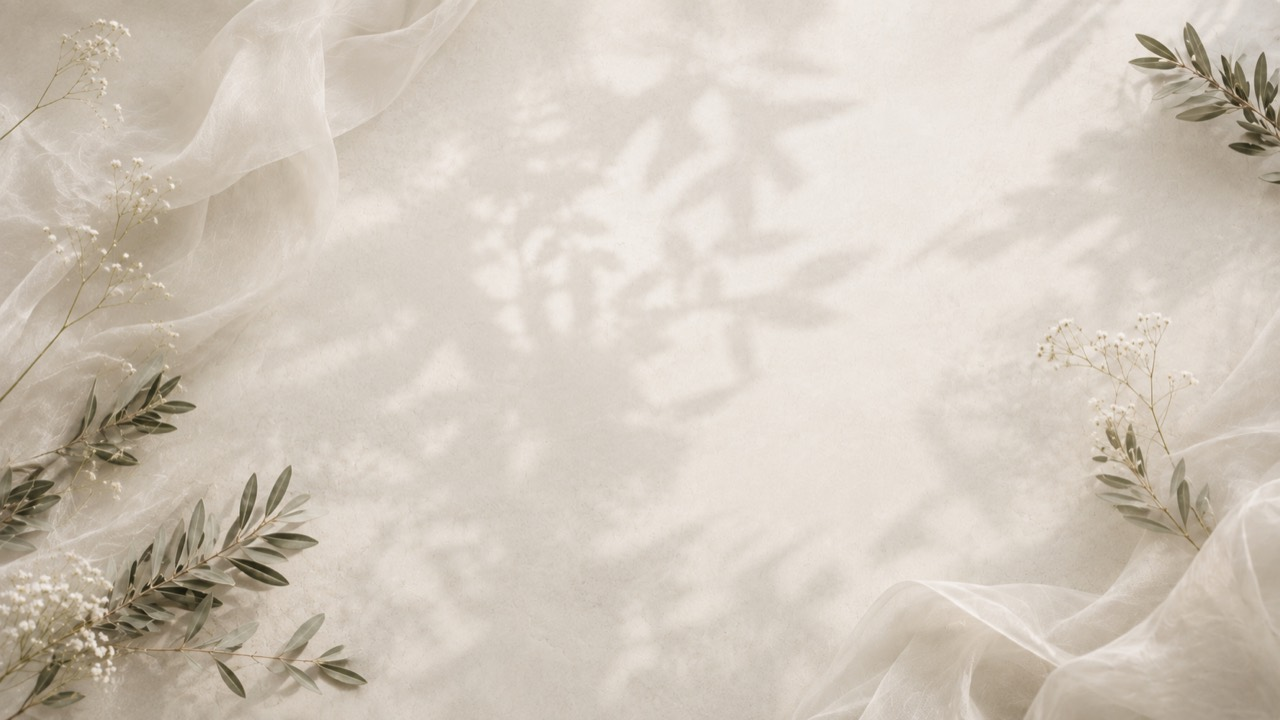
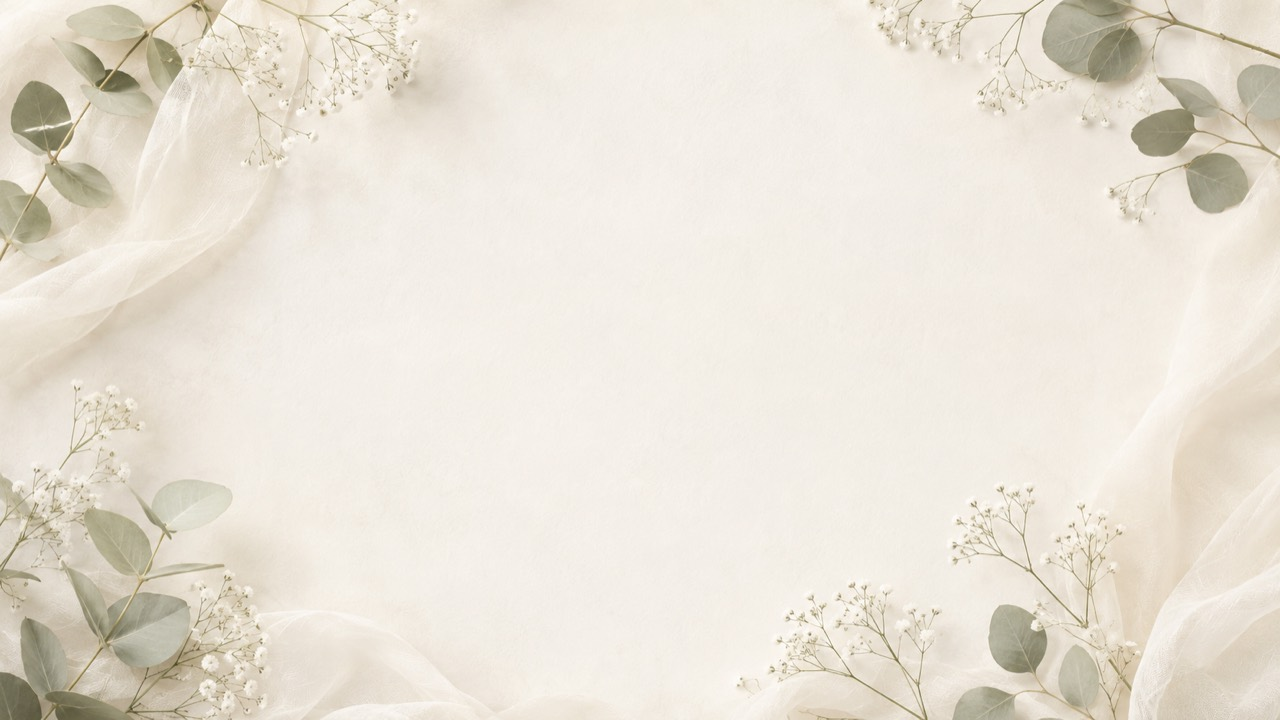
Replace Green Sage invitation hero background

diff --git a/green-sage-wedding-invite/invitation.html b/green-sage-wedding-invite/invitation.html
@@ -12,7 +12,7 @@
   <meta name="twitter:card" content="summary_large_image">
   <meta name="twitter:image" content="og.png">
   <link rel="icon" href="data:,">
-  <link rel="preload" href="invitation-assets/opening-background-reference.jpg" as="image">
+  <link rel="preload" href="invitation-assets/opening-background-reference.jpg?v=20260830-hero-v1" as="image">
   <title>Alexandra &amp; Gabriel — Wedding Invitation</title>
   <script>
     if (new URLSearchParams(window.location.search).has('handoff')) {
@@ -297,7 +297,7 @@
       }
     }
   </style>
-  <link rel="stylesheet" href="styles.css?v=20260814-opening-cinematic-v14">
+  <link rel="stylesheet" href="styles.css?v=20260830-hero-v1">
 </head>
 <body>
   <main class="page">
@@ -379,8 +379,8 @@
     </div>
   </main>
 
-  <script src="template-config.js?v=20260804-editor-foundation" defer></script>
-  <script src="template-runtime.js?v=20260804-editor-foundation" defer></script>
+  <script src="template-config.js?v=20260830-hero-v1" defer></script>
+  <script src="template-runtime.js?v=20260830-hero-v1" defer></script>
   <script src="invitation.js?v=20260820-our-story-photo-1" defer></script>
 </body>
 </html>

diff --git a/green-sage-wedding-invite/index.html b/green-sage-wedding-invite/index.html
@@ -15,7 +15,7 @@
   <link rel="preload" href="invitation-assets/envelope-liner-optimized.jpg" as="image">
   <link rel="preload" href="invitation-assets/envelope-paper-greige.jpg" as="image">
   <link rel="preload" href="invitation-assets/wax-seal-blank-optimized.png" as="image">
-  <link rel="preload" href="invitation-assets/opening-background-reference.jpg" as="image" fetchpriority="high">
+  <link rel="preload" href="invitation-assets/opening-background-reference.jpg?v=20260830-hero-v1" as="image" fetchpriority="high">
   <title>Green Sage – Wedding Invite — Alexandra &amp; Gabriel</title>
   <link rel="stylesheet" href="styles.css?v=20260830-olive-seal-v1">
 </head>

diff --git a/green-sage-wedding-invite/template-runtime.js b/green-sage-wedding-invite/template-runtime.js
@@ -17,7 +17,10 @@
     if (!section || !settings) return;
 
     if (settings.background) {
-      section.style.backgroundImage = `url("${String(settings.background).replaceAll('"', '%22')}")`;
+      const background = settings.background === 'invitation-assets/opening-background-reference.jpg'
+        ? 'invitation-assets/opening-background-reference.jpg?v=20260830-hero-v1'
+        : settings.background;
+      section.style.backgroundImage = `url("${String(background).replaceAll('"', '%22')}")`;
     } else {
       section.style.removeProperty('background-image');
     }

diff --git a/green-sage-wedding-invite/styles.css b/green-sage-wedding-invite/styles.css
@@ -1544,7 +1544,7 @@
       background-color: var(--system-ivory);
       background-image:
         linear-gradient(rgba(255,255,255,.08), rgba(255,255,255,.08)),
-        url("invitation-assets/opening-background-reference.jpg");
+        url("invitation-assets/opening-background-reference.jpg?v=20260830-hero-v1");
       background-position: center;
       background-repeat: no-repeat;
       background-size: cover;

diff --git a/green-sage-wedding-invite/template-config.js b/green-sage-wedding-invite/template-config.js
@@ -20,7 +20,7 @@
     },
     sections: {
       opening: {
-        background: 'invitation-assets/opening-background-reference.jpg',
+        background: 'invitation-assets/opening-background-reference.jpg?v=20260830-hero-v1',
         positionX: 50,
         positionY: 50,
         zoom: 100
